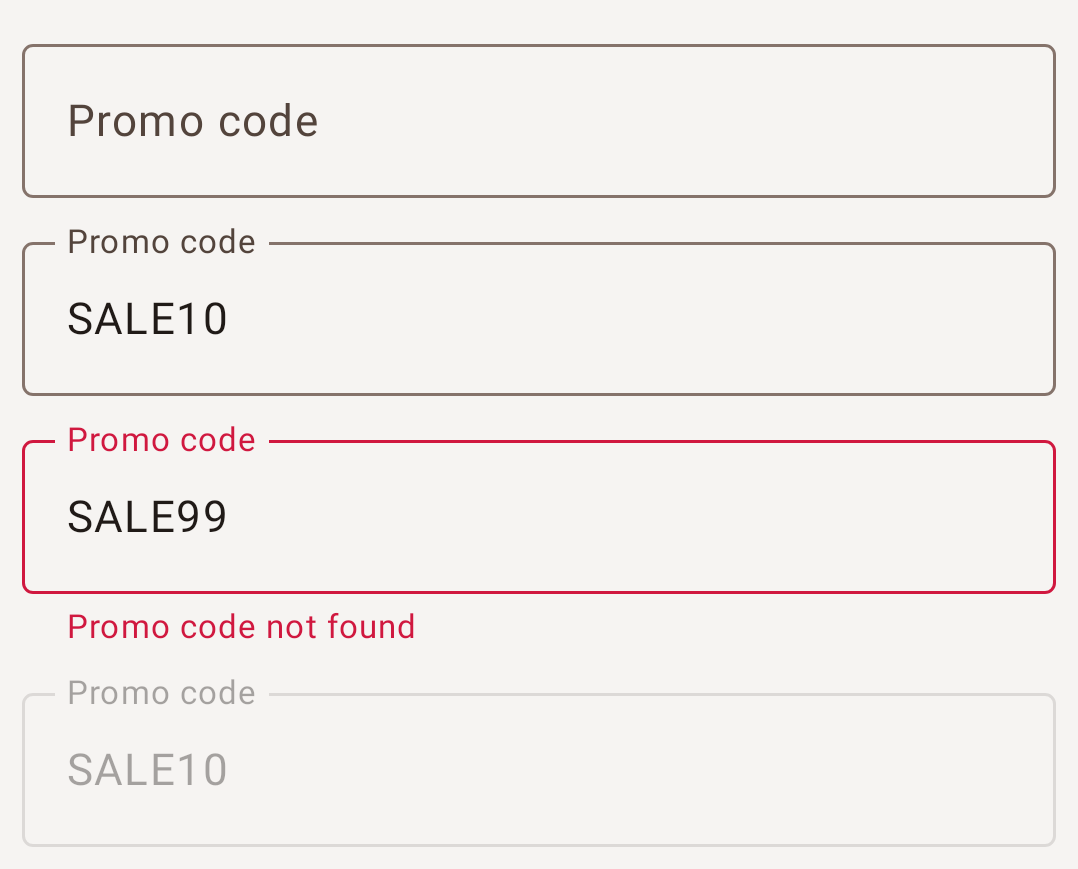
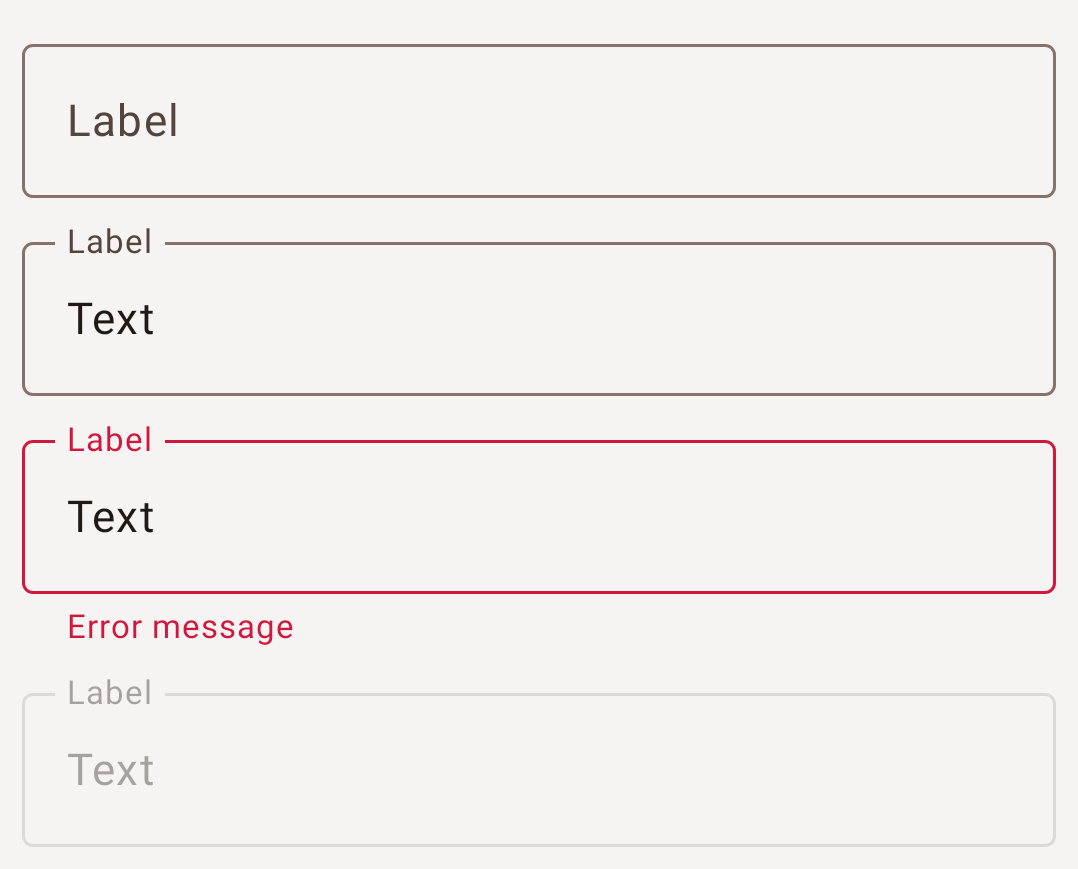
refactor(designsystem): use neutral texts in the previews
The design system knows nothing about the shop, and its previews (and
screenshots) showed the shop's texts and icons. They now use the same
neutral texts as the UI kit samples.

diff --git a/core/designsystem/src/main/java/krio/systemdesign/shoppingapp/core/designsystem/components/notices/Notice.kt b/core/designsystem/src/main/java/krio/systemdesign/shoppingapp/core/designsystem/components/notices/Notice.kt
@@ -27,9 +27,6 @@ import krio.systemdesign.shoppingapp.core.designsystem.icons.AppIcons
 import krio.systemdesign.shoppingapp.core.designsystem.icons.symbols.CheckCircle
 import krio.systemdesign.shoppingapp.core.designsystem.icons.symbols.Error
 import krio.systemdesign.shoppingapp.core.designsystem.icons.symbols.Info
-import krio.systemdesign.shoppingapp.core.designsystem.icons.symbols.Inventory2
-import krio.systemdesign.shoppingapp.core.designsystem.icons.symbols.ProductionQuantityLimits
-import krio.systemdesign.shoppingapp.core.designsystem.icons.symbols.Sell
 import krio.systemdesign.shoppingapp.core.designsystem.theme.ShoppingAppTheme
 
 @Composable
@@ -126,7 +123,7 @@ private const val NOTICE_BACKGROUND_ALPHA = 0.14f
 @Preview(name = "Light")
 @Preview(name = "Dark", uiMode = Configuration.UI_MODE_NIGHT_YES)
 @Composable
-private fun NoticeProductIssuesPreview() {
+private fun NoticePreview() {
     ShoppingAppTheme {
         Surface(color = ShoppingAppTheme.colors.cardContainer) {
             Column(
@@ -134,19 +131,25 @@ private fun NoticeProductIssuesPreview() {
                 verticalArrangement = Arrangement.spacedBy(8.dp),
             ) {
                 Notice(
-                    icon = AppIcons.Inventory2,
-                    title = "Out of stock",
+                    icon = AppIcons.Error,
+                    title = "Something went wrong",
                     style = NoticeStyle.Error,
                 )
                 Notice(
-                    icon = AppIcons.Sell,
-                    title = "Price changed: now $149.99",
-                    style = NoticeStyle.Error,
+                    icon = AppIcons.CheckCircle,
+                    title = "Done",
+                    style = NoticeStyle.Success,
                 )
                 Notice(
-                    icon = AppIcons.ProductionQuantityLimits,
-                    title = "Only 1 available to order now",
-                    style = NoticeStyle.Error,
+                    icon = AppIcons.Info,
+                    title = "For your information",
+                    style = NoticeStyle.Neutral,
+                    subtitle = "A short explanation",
+                )
+                Notice(
+                    icon = AppIcons.Info,
+                    title = "A longer message that doesn't fit on one line and goes on to the next one",
+                    style = NoticeStyle.Neutral,
                 )
             }
         }
@@ -156,7 +159,7 @@ private fun NoticeProductIssuesPreview() {
 @Preview(name = "Light")
 @Preview(name = "Dark", uiMode = Configuration.UI_MODE_NIGHT_YES)
 @Composable
-private fun NoticePromoCodePreview() {
+private fun NoticeWithActionPreview() {
     ShoppingAppTheme {
         Surface(color = ShoppingAppTheme.colors.cardContainer) {
             Column(
@@ -165,42 +168,20 @@ private fun NoticePromoCodePreview() {
             ) {
                 NoticeWithAction(
                     icon = AppIcons.Error,
-                    title = "Promo code SALE10 is no longer valid",
+                    title = "Something went wrong",
                     style = NoticeStyle.Error,
-                    actionText = "Remove",
+                    actionText = "Action",
                     onAction = {},
-                    subtitle = "Remove it to place your order",
+                    subtitle = "A short explanation",
                 )
                 NoticeWithAction(
                     icon = AppIcons.CheckCircle,
-                    title = "Promo code SALE10 · −10%",
+                    title = "Done",
                     style = NoticeStyle.Success,
-                    actionText = "Remove",
+                    actionText = "Action",
                     onAction = {},
                 )
-                Notice(
-                    icon = AppIcons.CheckCircle,
-                    title = "Promo code SALE25 · −25%",
-                    style = NoticeStyle.Success,
-                )
             }
-        }
-    }
-}
-
-@Preview(name = "Light")
-@Preview(name = "Dark", uiMode = Configuration.UI_MODE_NIGHT_YES)
-@Composable
-private fun NoticeCheckoutPreview() {
-    ShoppingAppTheme {
-        Surface(color = MaterialTheme.colorScheme.surfaceContainer) {
-            Notice(
-                icon = AppIcons.Info,
-                title = "This is a demo app: the order isn't sent anywhere. " +
-                    "Placing it empties the cart and its promo code",
-                style = NoticeStyle.Neutral,
-                modifier = Modifier.padding(horizontal = 16.dp, vertical = 12.dp),
-            )
         }
     }
 }

diff --git a/core/designsystem/src/main/java/krio/systemdesign/shoppingapp/core/designsystem/components/cards/AppListItem.kt b/core/designsystem/src/main/java/krio/systemdesign/shoppingapp/core/designsystem/components/cards/AppListItem.kt
@@ -15,13 +15,7 @@ import androidx.compose.ui.tooling.preview.Preview
 import androidx.compose.ui.unit.dp
 import krio.systemdesign.shoppingapp.core.designsystem.components.buttons.SingleChoiceButtons
 import krio.systemdesign.shoppingapp.core.designsystem.icons.AppIcons
-import krio.systemdesign.shoppingapp.core.designsystem.icons.symbols.BrightnessAuto
-import krio.systemdesign.shoppingapp.core.designsystem.icons.symbols.Contrast
-import krio.systemdesign.shoppingapp.core.designsystem.icons.symbols.DarkMode
-import krio.systemdesign.shoppingapp.core.designsystem.icons.symbols.HourglassEmpty
-import krio.systemdesign.shoppingapp.core.designsystem.icons.symbols.Inventory2
-import krio.systemdesign.shoppingapp.core.designsystem.icons.symbols.LightMode
-import krio.systemdesign.shoppingapp.core.designsystem.icons.symbols.Link
+import krio.systemdesign.shoppingapp.core.designsystem.icons.symbols.Info
 import krio.systemdesign.shoppingapp.core.designsystem.icons.symbols.OpenInNew
 import krio.systemdesign.shoppingapp.core.designsystem.theme.ShoppingAppTheme
 
@@ -51,46 +45,31 @@ private fun AppListItemPreview() {
         Surface {
             Column {
                 AppListItem(
-                    icon = AppIcons.Contrast,
-                    title = "Theme",
-                    description = "System",
+                    icon = AppIcons.Info,
+                    title = "List item",
+                    description = "Selected: 1",
                     trailing = {
                         SingleChoiceButtons(
-                            options = listOf(AppIcons.BrightnessAuto, AppIcons.LightMode, AppIcons.DarkMode),
-                            selected = AppIcons.BrightnessAuto,
+                            options = listOf(1, 2, 3),
+                            selected = 1,
                             onSelect = {},
                             modifier = Modifier.width(168.dp),
-                        ) { icon ->
-                            Icon(icon, contentDescription = null)
+                        ) { option ->
+                            Text(option.toString())
                         }
                     },
                 )
                 AppListItem(
-                    icon = AppIcons.HourglassEmpty,
-                    title = "Request delay",
-                    description = "No delay",
-                    trailing = {
-                        SingleChoiceButtons(
-                            options = listOf(0, 2, 4),
-                            selected = 0,
-                            onSelect = {},
-                            modifier = Modifier.width(168.dp),
-                        ) { seconds ->
-                            Text(seconds.toString())
-                        }
-                    },
-                )
-                AppListItem(
-                    icon = AppIcons.Link,
-                    title = "Deep links",
-                    description = "Opens a page with the links in your browser",
+                    icon = AppIcons.Info,
+                    title = "List item",
+                    description = "Item description",
                     onClick = {},
                     trailing = { Icon(AppIcons.OpenInNew, contentDescription = null) },
                 )
                 AppListItem(
-                    icon = AppIcons.Inventory2,
-                    title = "Add an out-of-stock item to the cart",
-                    description = "To check how the cart shows an unavailable item",
+                    icon = AppIcons.Info,
+                    title = "List item",
+                    description = "A longer description that doesn't fit on one line and goes on to the next one",
                     onClick = {},
                 )
             }

diff --git a/core/designsystem/src/main/java/krio/systemdesign/shoppingapp/core/designsystem/components/bars/AppNavigationBarItem.kt b/core/designsystem/src/main/java/krio/systemdesign/shoppingapp/core/designsystem/components/bars/AppNavigationBarItem.kt
@@ -22,8 +22,8 @@ import androidx.compose.ui.tooling.preview.Preview
 import androidx.compose.ui.unit.dp
 import krio.systemdesign.shoppingapp.core.designsystem.icons.AppIcons
 import krio.systemdesign.shoppingapp.core.designsystem.icons.symbols.HomeFilled
+import krio.systemdesign.shoppingapp.core.designsystem.icons.symbols.NotificationsFilled
 import krio.systemdesign.shoppingapp.core.designsystem.icons.symbols.SettingsFilled
-import krio.systemdesign.shoppingapp.core.designsystem.icons.symbols.ShoppingCartFilled
 import krio.systemdesign.shoppingapp.core.designsystem.theme.ShoppingAppTheme
 
 @Composable
@@ -83,23 +83,23 @@ private fun AppNavigationBarItemPreview() {
                             selected = selected,
                             onClick = {},
                             icon = AppIcons.HomeFilled,
-                            label = "Catalog",
+                            label = "Home",
                         )
                     },
                     { selected ->
                         AppNavigationBarItem(
                             selected = selected,
                             onClick = {},
-                            icon = AppIcons.ShoppingCartFilled,
-                            label = "Cart",
+                            icon = AppIcons.NotificationsFilled,
+                            label = "Notifications",
                         )
                     },
                     { selected ->
                         AppNavigationBarItem(
                             selected = selected,
                             onClick = {},
-                            icon = AppIcons.ShoppingCartFilled,
-                            label = "Cart",
+                            icon = AppIcons.NotificationsFilled,
+                            label = "Notifications",
                             badgeCount = 3,
                         )
                     },
@@ -107,8 +107,8 @@ private fun AppNavigationBarItemPreview() {
                         AppNavigationBarItem(
                             selected = selected,
                             onClick = {},
-                            icon = AppIcons.ShoppingCartFilled,
-                            label = "Cart",
+                            icon = AppIcons.NotificationsFilled,
+                            label = "Notifications",
                             badgeCount = 120,
                         )
                     },

diff --git a/core/designsystem/src/main/java/krio/systemdesign/shoppingapp/core/designsystem/components/buttons/SingleChoiceButtons.kt b/core/designsystem/src/main/java/krio/systemdesign/shoppingapp/core/designsystem/components/buttons/SingleChoiceButtons.kt
@@ -24,10 +24,8 @@ import androidx.compose.ui.tooling.preview.Preview
 import androidx.compose.ui.unit.dp
 import krio.systemdesign.shoppingapp.core.designsystem.icons.AppIcons
 import krio.systemdesign.shoppingapp.core.designsystem.icons.symbols.BrightnessAuto
-import krio.systemdesign.shoppingapp.core.designsystem.icons.symbols.CreditCard
 import krio.systemdesign.shoppingapp.core.designsystem.icons.symbols.DarkMode
 import krio.systemdesign.shoppingapp.core.designsystem.icons.symbols.LightMode
-import krio.systemdesign.shoppingapp.core.designsystem.icons.symbols.Payments
 import krio.systemdesign.shoppingapp.core.designsystem.theme.ShoppingAppTheme
 
 @OptIn(ExperimentalMaterial3Api::class)
@@ -99,14 +97,14 @@ private fun SingleChoiceButtonsPreview() {
                         modifier = Modifier.padding(8.dp),
                         verticalArrangement = Arrangement.spacedBy(8.dp),
                     ) {
-                        val paymentMethods = listOf(
-                            AppIcons.CreditCard to "Card",
-                            AppIcons.Payments to "Cash",
+                        val modes = listOf(
+                            AppIcons.LightMode to "Light",
+                            AppIcons.DarkMode to "Dark",
                         )
                         listOf(true, false).forEach { enabled ->
                             SingleChoiceButtons(
-                                options = paymentMethods,
-                                selected = paymentMethods.first(),
+                                options = modes,
+                                selected = modes.first(),
                                 onSelect = {},
                                 modifier = Modifier.fillMaxWidth(),
                                 enabled = enabled,

diff --git a/core/designsystem/src/main/java/krio/systemdesign/shoppingapp/core/designsystem/components/inputs/AppTextField.kt b/core/designsystem/src/main/java/krio/systemdesign/shoppingapp/core/designsystem/components/inputs/AppTextField.kt
@@ -68,23 +68,25 @@ private fun AppTextFieldPreview() {
                     ) {
                         AppTextField(
                             state = rememberTextFieldState(),
-                            label = "Street *",
+                            label = "Label",
                             modifier = Modifier.fillMaxWidth(),
                         )
                         AppTextField(
-                            state = rememberTextFieldState("Baker Street, 221"),
-                            label = "Street *",
+                            state = rememberTextFieldState("Text"),
+                            label = "Label",
                             modifier = Modifier.fillMaxWidth(),
                         )
                         AppTextField(
-                            state = rememberTextFieldState("Baker Street, 221"),
-                            label = "Street *",
+                            state = rememberTextFieldState("Text"),
+                            label = "Label",
                             modifier = Modifier.fillMaxWidth(),
                             enabled = false,
                         )
                         AppTextField(
-                            state = rememberTextFieldState("Please call when you arrive, the intercom doesn't work."),
-                            label = "Comment for the courier",
+                            state = rememberTextFieldState(
+                                "A longer text that doesn't fit on one line and goes on to the next one",
+                            ),
+                            label = "Multiline field",
                             modifier = Modifier.fillMaxWidth(),
                             singleLine = false,
                         )

diff --git a/core/designsystem/src/main/java/krio/systemdesign/shoppingapp/core/designsystem/components/screenstates/EmptyState.kt b/core/designsystem/src/main/java/krio/systemdesign/shoppingapp/core/designsystem/components/screenstates/EmptyState.kt
@@ -20,9 +20,8 @@ import androidx.compose.ui.text.style.TextAlign
 import androidx.compose.ui.tooling.preview.Preview
 import androidx.compose.ui.unit.dp
 import krio.systemdesign.shoppingapp.core.designsystem.icons.AppIcons
+import krio.systemdesign.shoppingapp.core.designsystem.icons.symbols.Info
 import krio.systemdesign.shoppingapp.core.designsystem.icons.symbols.SearchOff
-import krio.systemdesign.shoppingapp.core.designsystem.icons.symbols.ShoppingCart
-import krio.systemdesign.shoppingapp.core.designsystem.icons.symbols.Storefront
 import krio.systemdesign.shoppingapp.core.designsystem.theme.ShoppingAppTheme
 
 @Composable
@@ -72,19 +71,14 @@ private fun EmptyStatePreview() {
                 verticalArrangement = Arrangement.spacedBy(8.dp),
             ) {
                 EmptyState(
-                    icon = AppIcons.ShoppingCart,
-                    message = "Add products from the catalog",
+                    icon = AppIcons.Info,
+                    message = "Content will appear here",
                     modifier = Modifier.fillMaxWidth(),
-                    title = "Your cart is empty",
-                )
-                EmptyState(
-                    icon = AppIcons.Storefront,
-                    message = "The catalog is empty",
-                    modifier = Modifier.fillMaxWidth(),
+                    title = "Nothing here yet",
                 )
                 EmptyState(
                     icon = AppIcons.SearchOff,
-                    message = "Nothing found for “drone”",
+                    message = "Nothing found for “zzzz”",
                     modifier = Modifier.fillMaxWidth(),
                 )
             }

diff --git a/core/designsystem/src/main/java/krio/systemdesign/shoppingapp/core/designsystem/components/inputs/AppOutlinedTextField.kt b/core/designsystem/src/main/java/krio/systemdesign/shoppingapp/core/designsystem/components/inputs/AppOutlinedTextField.kt
@@ -56,23 +56,23 @@ private fun AppOutlinedTextFieldPreview() {
             ) {
                 AppOutlinedTextField(
                     state = rememberTextFieldState(),
-                    label = "Promo code",
+                    label = "Label",
                     modifier = Modifier.fillMaxWidth(),
                 )
                 AppOutlinedTextField(
-                    state = rememberTextFieldState("SALE10"),
-                    label = "Promo code",
+                    state = rememberTextFieldState("Text"),
+                    label = "Label",
                     modifier = Modifier.fillMaxWidth(),
                 )
                 AppOutlinedTextField(
-                    state = rememberTextFieldState("SALE99"),
-                    label = "Promo code",
-                    error = "Promo code not found",
+                    state = rememberTextFieldState("Text"),
+                    label = "Label",
+                    error = "Error message",
                     modifier = Modifier.fillMaxWidth(),
                 )
                 AppOutlinedTextField(
-                    state = rememberTextFieldState("SALE10"),
-                    label = "Promo code",
+                    state = rememberTextFieldState("Text"),
+                    label = "Label",
                     enabled = false,
                     modifier = Modifier.fillMaxWidth(),
                 )

diff --git a/core/designsystem/src/main/java/krio/systemdesign/shoppingapp/core/designsystem/components/inputs/SearchField.kt b/core/designsystem/src/main/java/krio/systemdesign/shoppingapp/core/designsystem/components/inputs/SearchField.kt
@@ -55,10 +55,10 @@ private fun SearchFieldPreview() {
                 modifier = Modifier.padding(8.dp),
                 verticalArrangement = Arrangement.spacedBy(8.dp),
             ) {
-                listOf("", "headphones").forEach { query ->
+                listOf("", "Text").forEach { query ->
                     SearchField(
                         state = rememberTextFieldState(query),
-                        placeholder = "Search products",
+                        placeholder = "Search",
                         modifier = Modifier.fillMaxWidth(),
                     )
                 }

diff --git a/core/designsystem/src/main/java/krio/systemdesign/shoppingapp/core/designsystem/components/screenstates/ErrorState.kt b/core/designsystem/src/main/java/krio/systemdesign/shoppingapp/core/designsystem/components/screenstates/ErrorState.kt
@@ -66,9 +66,8 @@ private fun ErrorStatePreview() {
                 verticalArrangement = Arrangement.spacedBy(8.dp),
             ) {
                 listOf(
-                    "Couldn't load products",
-                    "Couldn't load the product",
-                    "Product not found",
+                    "Couldn't load data",
+                    "Couldn't load data. A longer message goes on to the next line",
                 ).forEach { message ->
                     ErrorState(
                         message = message,

diff --git a/core/designsystem/src/main/java/krio/systemdesign/shoppingapp/core/designsystem/components/notices/ErrorBanner.kt b/core/designsystem/src/main/java/krio/systemdesign/shoppingapp/core/designsystem/components/notices/ErrorBanner.kt
@@ -69,7 +69,7 @@ private fun ErrorBannerPreview() {
     ShoppingAppTheme {
         Surface {
             ErrorBanner(
-                message = "Couldn't load products",
+                message = "Couldn't load data",
                 onRetry = {},
                 modifier = Modifier.padding(horizontal = 16.dp, vertical = 8.dp),
             )
